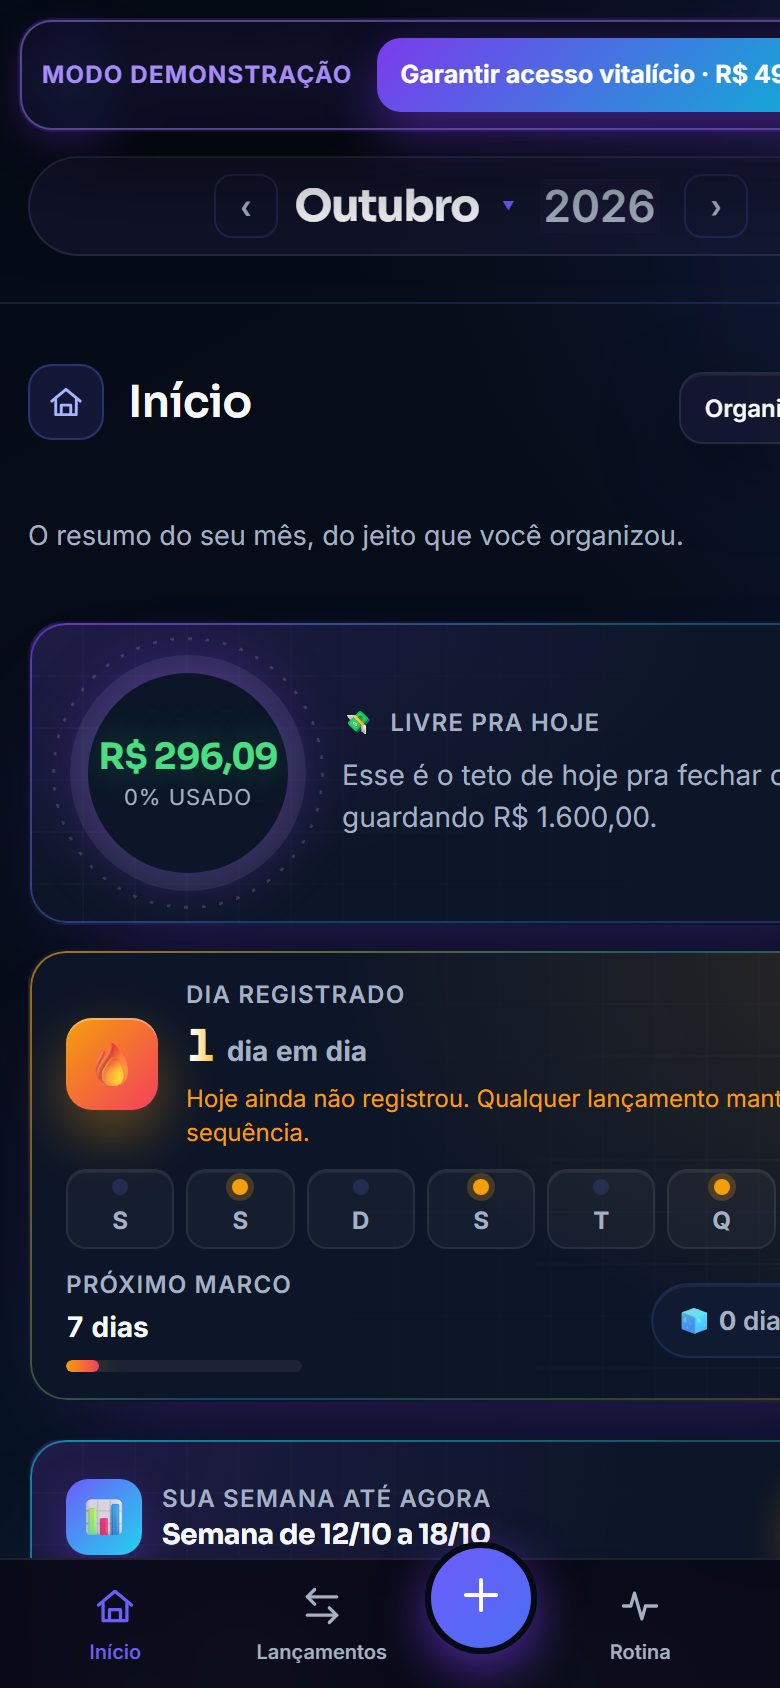
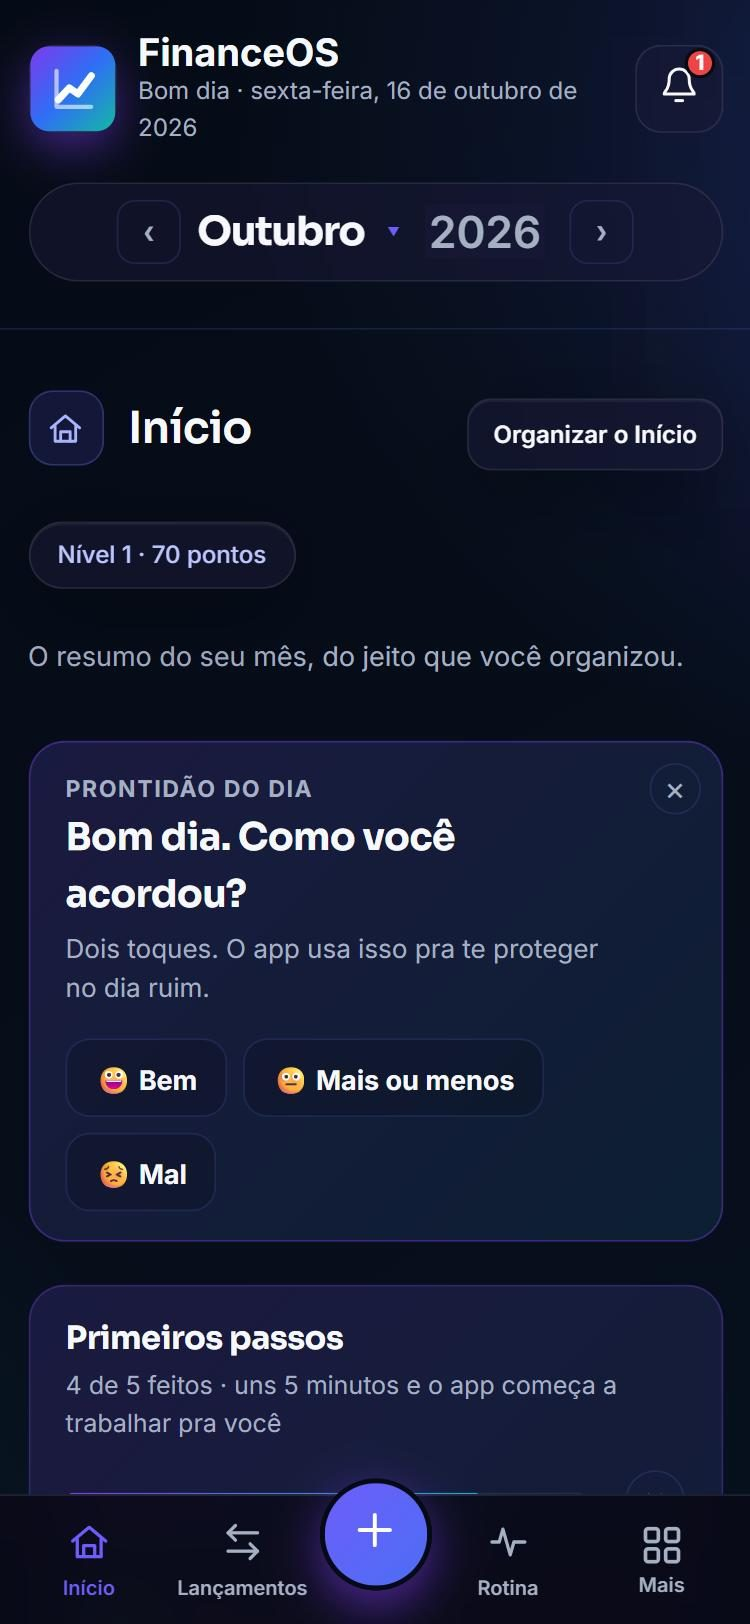
Site no celular: subtitulo curto (botao acima da dobra), botao do menu "Comecar" sem quebrar linha, poster novo da demo sem a barra e sem texto sobreposto; demo em tela cheia no celular ganha espaco pra barra nao cobrir o cabecalho (?poster=1 esconde a barra)

diff --git a/index.html b/index.html
@@ -112,7 +112,7 @@ a{color:inherit;text-decoration:none}
 .demo-poster{display:none;position:relative;width:100%;border:0;padding:0;margin:0;background:#080816;cursor:pointer;text-align:center;font:inherit;color:inherit}
 .demo-poster img{display:block;width:100%;max-width:390px;height:auto;margin:0 auto;opacity:.55;-webkit-mask-image:linear-gradient(180deg,#000 55%,transparent 100%);mask-image:linear-gradient(180deg,#000 55%,transparent 100%)}
 .demo-poster-cta{position:absolute;left:0;right:0;top:50%;transform:translateY(-50%);display:flex;flex-direction:column;align-items:center;gap:10px;padding:0 16px}
-.demo-poster-cta small{color:#cdd2ee;font-size:13px}
+.demo-poster-cta small{color:#cdd2ee;font-size:13px;background:rgba(8,8,22,.88);padding:6px 12px;border-radius:999px}
 @media(max-width:1000px){.demo-frame:not(.on) iframe{display:none}.demo-frame:not(.on) .demo-poster{display:block}.demo-poster img{max-height:520px;object-fit:cover;object-position:top}}
 .demo-foot{display:flex;align-items:center;justify-content:center;gap:12px;flex-wrap:wrap;margin-top:16px}
 .demo-foot .hint{color:var(--muted);font-size:13.5px}
@@ -240,6 +240,9 @@ footer a.flink{color:var(--muted)}
 footer a.flink:hover{color:var(--txt)}
 
 @media(max-width:640px){
+  .sub-more{display:none} /* celular: subtitulo curto, botao acima da dobra */
+  .nav-long{display:none} /* "Comecar" curto pra caber ao lado de "Entrar" */
+  .nav .btn-sm{white-space:nowrap;padding:9px 12px;font-size:13px}
   .nav .wrap{gap:10px;height:58px}
   .nav .lnk[data-hide-mobile]{display:none}
   .wordmark{font-size:18px}
@@ -287,13 +290,13 @@ window.__fosEv=function(n,p){ try{ fbq('trackCustom',n,p||{}); }catch(e){} };
   <a class="lnk" data-hide-mobile href="#vida">Rotina e saúde</a>
   <a class="lnk" data-hide-mobile href="#planos">Planos</a>
   <a class="lnk" href="/app">Entrar</a>
-  <a class="btn btn-orbita btn-sm" href="#planos">Começar agora</a>
+  <a class="btn btn-orbita btn-sm" href="#planos">Começar<span class="nav-long"> agora</span></a>
 </div></nav>
 
 <header class="hero" id="top"><div class="wrap">
   <div class="eyebrow">Acesso vitalício por R$ 49,90 · paga uma vez</div>
   <h1>Chegou no dia 20 e o dinheiro <span class="g">já acabou</span> de novo?</h1>
-  <p class="sub">Todo mundo sabe quanto ganha. O que ninguém te mostra é <b style="color:#fff">quanto ainda dá pra gastar hoje</b>, antes de passar da conta. O FinanceOS mostra. Você lança o gasto em dois toques e ele faz a conta por você. E como rotina bagunçada vira dinheiro bagunçado, ele também guarda seus hábitos, seu treino e sua dieta, no mesmo login.</p>
+  <p class="sub">Todo mundo sabe quanto ganha. O que ninguém te mostra é <b style="color:#fff">quanto ainda dá pra gastar hoje</b>, antes de passar da conta. O FinanceOS mostra. Você lança o gasto em dois toques e ele faz a conta por você.<span class="sub-more"> E como rotina bagunçada vira dinheiro bagunçado, ele também guarda seus hábitos, seu treino e sua dieta, no mesmo login.</span></p>
   <div class="cta">
     <a class="btn btn-orbita btn-lg" href="https://pay.kiwify.com.br/ZLpUxIS">Garantir meu acesso vitalício</a>
     <a class="btn btn-ghost btn-lg" href="#demo">Testar agora, sem cadastro</a>
@@ -310,7 +313,7 @@ window.__fosEv=function(n,p){ try{ fbq('trackCustom',n,p||{}); }catch(e){} };
     <div class="demo-frame">
       <iframe data-src="/demo" title="Demonstração do FinanceOS com dados de exemplo" allow="clipboard-write"></iframe>
       <button type="button" class="demo-poster" id="demoPoster" aria-label="Carregar a demonstração">
-        <img src="img/demo-cel.jpg" width="390" height="844" alt="Tela de Início do FinanceOS no celular" loading="lazy">
+        <img src="img/demo-cel.jpg" width="375" height="812" alt="Tela de Início do FinanceOS no celular" loading="lazy">
         <span class="demo-poster-cta"><span class="btn btn-orbita btn-lg">Testar agora, sem cadastro</span><small>Carrega em segundos. Não precisa instalar nada.</small></span>
       </button>
     </div>

diff --git a/demo/index.html b/demo/index.html
@@ -14945,6 +14945,7 @@ boot();
 #demoBar button{background:none;border:0;color:#9aa0c7;font-size:18px;line-height:1;cursor:pointer;padding:4px}
 @media(max-width:1000px){#demoBar{right:10px;left:10px;bottom:auto;top:10px;padding:8px 10px}#demoBar .t{font-size:12px}#demoBar .t span{display:none}#demoBar a{padding:9px 12px;font-size:12.5px}}
 body.demo-embed #demoBar{display:none}
+@media(max-width:1000px){body:has(#demoBar):not(.demo-embed){padding-top:64px}} /* celular: a barra nao cobre o cabecalho do app */
 </style>
 <div id="demoBar" role="note">
   <div class="t"><b>Modo demonstração</b><span>Dados de exemplo. Clique, lance um gasto, abra as telas.</span></div>
@@ -14952,7 +14953,7 @@ body.demo-embed #demoBar{display:none}
   <button type="button" aria-label="Fechar aviso" onclick="document.getElementById('demoBar').remove()">×</button>
 </div>
 <script>
-try{ if(window.self!==window.top)document.body.classList.add('demo-embed'); }catch(e){}
+try{ if(window.self!==window.top||/[?&]poster=1/.test(location.search))document.body.classList.add('demo-embed'); }catch(e){}
 try{ window._consTem=function(){ return true; }; }catch(e){} /* demo: sem o aviso de LGPD (dados de exemplo) */
 </script>
 </body>

diff --git a/build-demo.py b/build-demo.py
@@ -29,6 +29,7 @@ BANNER = r'''
 #demoBar button{background:none;border:0;color:#9aa0c7;font-size:18px;line-height:1;cursor:pointer;padding:4px}
 @media(max-width:1000px){#demoBar{right:10px;left:10px;bottom:auto;top:10px;padding:8px 10px}#demoBar .t{font-size:12px}#demoBar .t span{display:none}#demoBar a{padding:9px 12px;font-size:12.5px}}
 body.demo-embed #demoBar{display:none}
+@media(max-width:1000px){body:has(#demoBar):not(.demo-embed){padding-top:64px}} /* celular: a barra nao cobre o cabecalho do app */
 </style>
 <div id="demoBar" role="note">
   <div class="t"><b>Modo demonstração</b><span>Dados de exemplo. Clique, lance um gasto, abra as telas.</span></div>
@@ -36,7 +37,7 @@ body.demo-embed #demoBar{display:none}
   <button type="button" aria-label="Fechar aviso" onclick="document.getElementById('demoBar').remove()">×</button>
 </div>
 <script>
-try{ if(window.self!==window.top)document.body.classList.add('demo-embed'); }catch(e){}
+try{ if(window.self!==window.top||/[?&]poster=1/.test(location.search))document.body.classList.add('demo-embed'); }catch(e){}
 try{ window._consTem=function(){ return true; }; }catch(e){} /* demo: sem o aviso de LGPD (dados de exemplo) */
 </script>
 '''
